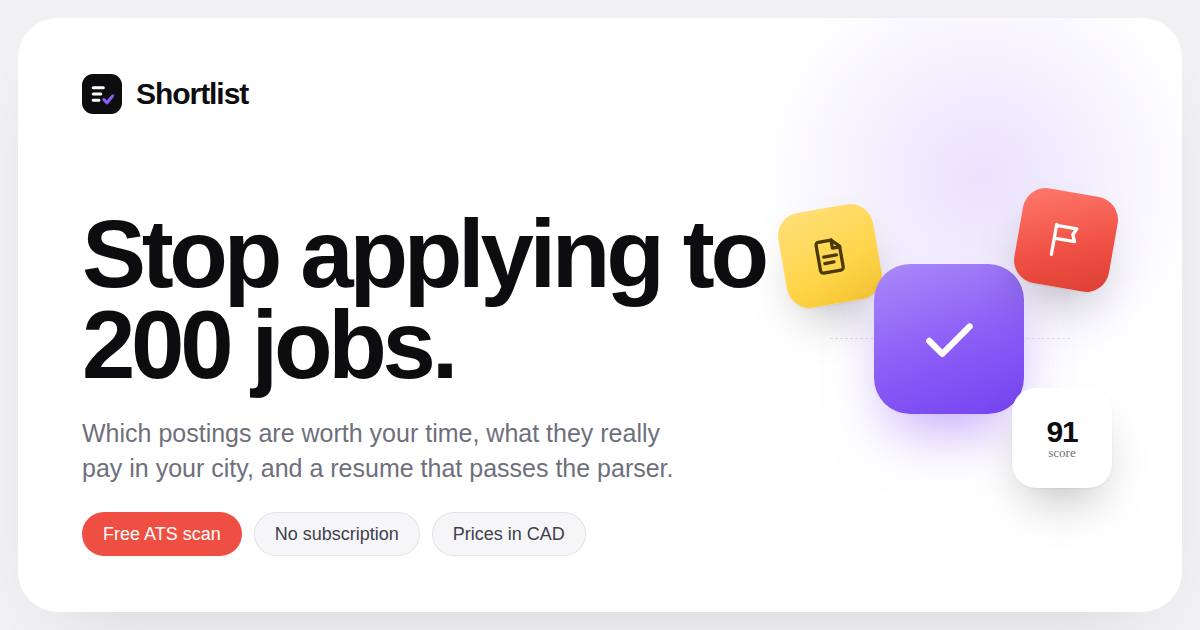
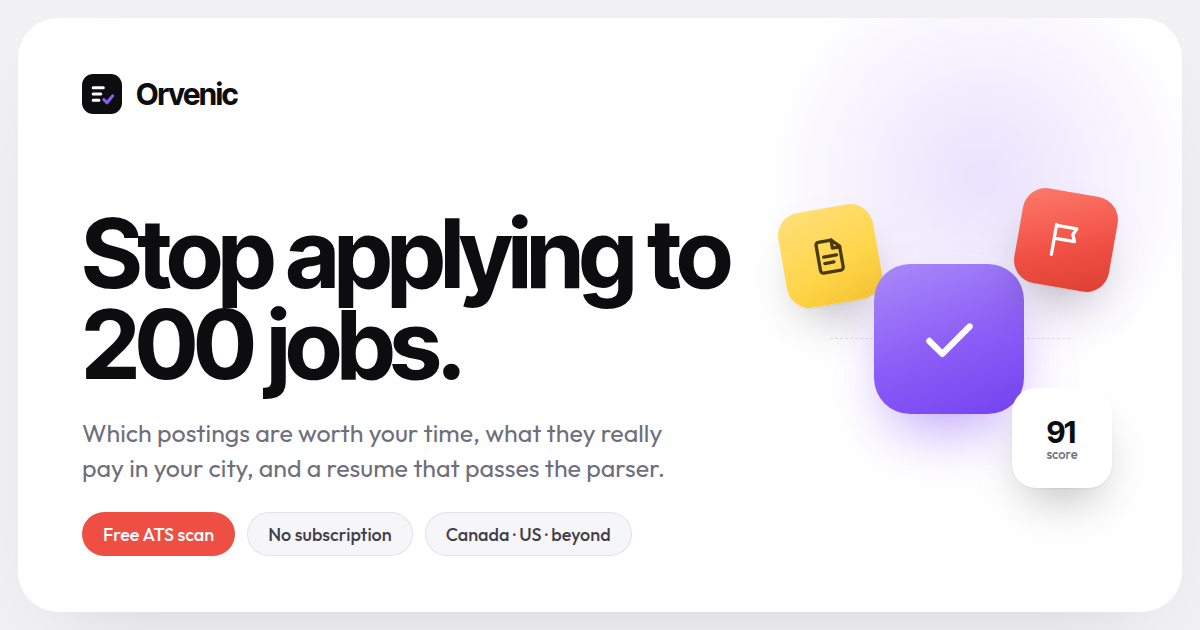
Rename the brand to Orvenic at orvenic.com
The company and the product are now Orvenic. Every brand mention in the
site, the app, emails, delivered documents, Stripe product names, prompts,
metadata, deployment files and docs changes with it; "shortlist" survives
only as a common noun. Defaults point at orvenic.com and hello@orvenic.com,
the emulator project is demo-orvenic, the footer wordmark is resized for the
shorter name, and the social preview image is re-rendered with the new name
using the site's own font files.

Claude-Session: https://claude.ai/code/session_011DjX4xCGdCcRnwDezQX4yh

diff --git a/src/lib/pages.ts b/src/lib/pages.ts
@@ -213,16 +213,16 @@ export const orgPage = {
       { title: "Quarterly reporting", body: "Seats used, scores before and after, applications per client, and voluntary renewals. Numbers your funders can use." },
     ],
   },
-  cta: { label: "Talk to us about a pilot", href: `mailto:${brand.email}?subject=Shortlist%20pilot` } as Link,
+  cta: { label: "Talk to us about a pilot", href: `mailto:${brand.email}?subject=Orvenic%20pilot` } as Link,
 };
 
 /* ---------- About page ---------- */
 
 export const aboutPage = {
   hero: {
-    eyebrow: "About Shortlist",
+    eyebrow: "About Orvenic",
     title: "The resume is an output. The decision is the product.",
-    lead: "Shortlist is an independent Canadian company built on one idea: job seekers do not need more applications, they need fewer, better ones. It works for postings in Canada, the United States and beyond.",
+    lead: "Orvenic is an independent Canadian company built on one idea: job seekers do not need more applications, they need fewer, better ones. It works for postings in Canada, the United States and beyond.",
   },
   wedges: {
     title: "Three things nobody else will do.",
@@ -238,7 +238,7 @@ export const aboutPage = {
       },
       {
         title: "Built for Canada and the US, in three languages",
-        body: "Most tools are built for one market and one language. Shortlist reads postings on both sides of the border and beyond, speaks English, French and Spanish, and makes foreign credentials legible to the employer in front of you.",
+        body: "Most tools are built for one market and one language. Orvenic reads postings on both sides of the border and beyond, speaks English, French and Spanish, and makes foreign credentials legible to the employer in front of you.",
       },
     ],
     theirs: ["Sell you a subscription with a free trial that converts", "Make money when you apply to more postings", "Let the model guess at salary", "Invent metrics to make bullets sound better", "Submit applications on your behalf", "Promise interviews"],
@@ -247,7 +247,7 @@ export const aboutPage = {
   company: {
     title: "Built in Windsor–Essex.",
     body: [
-      "Shortlist is a sole proprietorship registered in Ontario and run by its founder. It serves job seekers in Canada, the United States and beyond, with roots in the logistics, healthcare, trades, hospitality and administrative labour markets of Essex County.",
+      "Orvenic is a sole proprietorship registered in Ontario and run by its founder. It serves job seekers in Canada, the United States and beyond, with roots in the logistics, healthcare, trades, hospitality and administrative labour markets of Essex County.",
       "We publish the score breakdown, the refund policy and the six rules because a product that asks for your resume should be able to explain itself.",
     ],
     facts: [
@@ -388,8 +388,8 @@ export const contactPage = {
     lead: "Email is the fastest way to reach us. Landed customers get a same-day response; everyone else hears back within two business days.",
   },
   channels: [
-    { title: "Customers", body: "Questions about a scan, a delivery, a revision or a refund.", email: brand.email, subject: "Shortlist%20support" },
-    { title: "Organizations", body: "Pilots, seat packages, white-labelled intake pages and reporting.", email: brand.email, subject: "Shortlist%20pilot" },
+    { title: "Customers", body: "Questions about a scan, a delivery, a revision or a refund.", email: brand.email, subject: "Orvenic%20support" },
+    { title: "Organizations", body: "Pilots, seat packages, white-labelled intake pages and reporting.", email: brand.email, subject: "Orvenic%20pilot" },
     { title: "Privacy", body: "Access, correction or deletion requests under PIPEDA, GDPR, CCPA or your local privacy law.", email: brand.email, subject: "Privacy%20request" },
   ],
   address: `${brand.name} · ${brand.region}`,
@@ -415,7 +415,7 @@ export const legal: Record<"privacy" | "terms" | "refunds", LegalDoc> = {
   privacy: {
     title: "Privacy policy",
     updated: "September 2026",
-    intro: "Your resume is personal information. This policy explains, in plain language, what we collect, why, how long we keep it, and how to make it go away. Shortlist is a Canadian company and operates under Canada's Personal Information Protection and Electronic Documents Act (PIPEDA). If you are in the United States, the United Kingdom, the European Union or elsewhere, you also have the rights your local law gives you (for example the CCPA in California or the GDPR), and this policy applies to you the same way.",
+    intro: "Your resume is personal information. This policy explains, in plain language, what we collect, why, how long we keep it, and how to make it go away. Orvenic is a Canadian company and operates under Canada's Personal Information Protection and Electronic Documents Act (PIPEDA). If you are in the United States, the United Kingdom, the European Union or elsewhere, you also have the rights your local law gives you (for example the CCPA in California or the GDPR), and this policy applies to you the same way.",
     sections: [
       {
         id: "collect",
@@ -479,7 +479,7 @@ export const legal: Record<"privacy" | "terms" | "refunds", LegalDoc> = {
       {
         id: "age",
         heading: "Age",
-        paragraphs: ["Shortlist is for people who are legally able to work in the country where they are applying. It is not directed at anyone under 16."],
+        paragraphs: ["Orvenic is for people who are legally able to work in the country where they are applying. It is not directed at anyone under 16."],
       },
       {
         id: "changes",
@@ -493,13 +493,13 @@ export const legal: Record<"privacy" | "terms" | "refunds", LegalDoc> = {
   terms: {
     title: "Terms of service",
     updated: "September 2026",
-    intro: "These terms are the agreement between you and Shortlist when you use the free scan or buy a package. They are written to be read, not skimmed.",
+    intro: "These terms are the agreement between you and Orvenic when you use the free scan or buy a package. They are written to be read, not skimmed.",
     sections: [
       {
         id: "service",
-        heading: "What Shortlist does",
+        heading: "What Orvenic does",
         paragraphs: [
-          "Shortlist scores your resume against job postings you choose, tells you whether a posting is worth applying to, reports the market salary band for that role in your city, flags problems in the posting, and produces a tailored resume and cover letter. Depending on the package, it also provides a browser extension that fills application forms for your review, an application tracker, interview preparation, and human coaching.",
+          "Orvenic scores your resume against job postings you choose, tells you whether a posting is worth applying to, reports the market salary band for that role in your city, flags problems in the posting, and produces a tailored resume and cover letter. Depending on the package, it also provides a browser extension that fills application forms for your review, an application tracker, interview preparation, and human coaching.",
         ],
       },
       {
@@ -558,7 +558,7 @@ export const legal: Record<"privacy" | "terms" | "refunds", LegalDoc> = {
         id: "acceptable-use",
         heading: "Acceptable use",
         bullets: [
-          "Do not use Shortlist to produce documents for a person who has not consented, or to misrepresent identity, credentials or experience.",
+          "Do not use Orvenic to produce documents for a person who has not consented, or to misrepresent identity, credentials or experience.",
           "Do not attempt to automate, scrape, resell or share access to the service outside the organization seat programme.",
           "Do not upload content you do not have the right to share.",
         ],

diff --git a/src/lib/content.ts b/src/lib/content.ts
@@ -1,5 +1,5 @@
 /* ------------------------------------------------------------------
-   All copy and data for the Shortlist landing page.
+   All copy and data for the Orvenic landing page.
    Prices in CAD (Canada) and USD (everywhere else). Windsor–Essex, Ontario.
    Note: the 30-day pass fair-use cap lives in the terms, never in UI.
 ------------------------------------------------------------------- */
@@ -12,11 +12,11 @@ export interface Link {
 }
 
 export const brand = {
-  name: "Shortlist",
+  name: "Orvenic",
   region: "Windsor–Essex, Ontario",
-  email: "hello@shortlist.ca",
+  email: "hello@orvenic.com",
   blurb:
-    "Shortlist tells job seekers which postings are worth applying to, what those roles really pay in their city, and rewrites the resume for the ones that pass. Built in Windsor–Essex, Ontario, for Canada, the US and beyond.",
+    "Orvenic tells job seekers which postings are worth applying to, what those roles really pay in their city, and rewrites the resume for the ones that pass. Built in Windsor–Essex, Ontario, for Canada, the US and beyond.",
 };
 
 export const nav = {
@@ -38,7 +38,7 @@ export const hero = {
     b: "Know what the job actually pays.",
   },
   lead:
-    "Shortlist tells job seekers in Canada, the US and beyond which postings are worth applying to, what those roles really pay in their city, and then rewrites their resume for the ones that pass. Delivered in under five minutes.",
+    "Orvenic tells job seekers in Canada, the US and beyond which postings are worth applying to, what those roles really pay in their city, and then rewrites their resume for the ones that pass. Delivered in under five minutes.",
   primary: { label: "Scan my resume free", href: "/scan" } as Link,
   secondary: { label: "See pricing", href: "/pricing" } as Link,
   trust: ["No subscription", "No auto-renew", "No card retained", "Prices in CAD or USD"],
@@ -385,7 +385,7 @@ export const organizations = {
     "Staff onboarding",
     "Seats valid for 12 months from purchase",
   ],
-  cta: { label: "Talk to us about a pilot", href: `mailto:${brand.email}?subject=Shortlist%20pilot` } as Link,
+  cta: { label: "Talk to us about a pilot", href: `mailto:${brand.email}?subject=Orvenic%20pilot` } as Link,
 };
 
 export interface Faq {

diff --git a/src/lib/email/resend.ts b/src/lib/email/resend.ts
@@ -29,15 +29,15 @@ export async function sendEmail(input: { to: string; subject: string; text: stri
 
 export function freeScanEmail(input: { score: number; verdict: string; reasons: string[]; resultUrl: string }): { subject: string; text: string } {
   return {
-    subject: `Your Shortlist scan: ${input.score}/100`,
-    text: [`Your resume scored ${input.score} out of 100 against that posting (${input.verdict}).`, "", "The three reasons it is being filtered out:", ...input.reasons.map((r, i) => `${i + 1}. ${r}`), "", `Full breakdown: ${input.resultUrl}`, "", "Shortlist · Windsor–Essex, Ontario"].join("\n"),
+    subject: `Your Orvenic scan: ${input.score}/100`,
+    text: [`Your resume scored ${input.score} out of 100 against that posting (${input.verdict}).`, "", "The three reasons it is being filtered out:", ...input.reasons.map((r, i) => `${i + 1}. ${r}`), "", `Full breakdown: ${input.resultUrl}`, "", "Orvenic · Windsor–Essex, Ontario"].join("\n"),
   };
 }
 
 export function packageReadyEmail(input: { title: string; company?: string; score: number; url: string }): { subject: string; text: string } {
   return {
     subject: `Your ${input.title} package is ready (${input.score}/100)`,
-    text: [`Your tailored resume and cover letter for ${input.title}${input.company ? ` at ${input.company}` : ""} are ready.`, `After the rewrite it scores ${input.score} out of 100.`, "", `Open it: ${input.url}`, "", "Shortlist · Windsor–Essex, Ontario"].join("\n"),
+    text: [`Your tailored resume and cover letter for ${input.title}${input.company ? ` at ${input.company}` : ""} are ready.`, `After the rewrite it scores ${input.score} out of 100.`, "", `Open it: ${input.url}`, "", "Orvenic · Windsor–Essex, Ontario"].join("\n"),
   };
 }
 

diff --git a/src/app/layout.tsx b/src/app/layout.tsx
@@ -25,28 +25,28 @@ const body = Outfit({
 });
 
 const description =
-  "Shortlist tells job seekers which postings are worth applying to, what those roles actually pay in their city, and rewrites the resume for the ones that pass. Canada, the US and beyond. Under five minutes. One-time purchase, no subscription.";
+  "Orvenic tells job seekers which postings are worth applying to, what those roles actually pay in their city, and rewrites the resume for the ones that pass. Canada, the US and beyond. Under five minutes. One-time purchase, no subscription.";
 
 export const metadata: Metadata = {
   metadataBase: new URL(siteUrl),
   title: {
-    default: "Shortlist — Know which jobs are worth applying to",
-    template: "%s · Shortlist",
+    default: "Orvenic — Know which jobs are worth applying to",
+    template: "%s · Orvenic",
   },
   description,
-  applicationName: "Shortlist",
+  applicationName: "Orvenic",
   keywords: ["resume", "ATS score", "job search", "Canada", "United States", "Windsor", "salary report", "cover letter"],
   openGraph: {
-    title: "Shortlist — Stop applying to 200 jobs.",
+    title: "Orvenic — Stop applying to 200 jobs.",
     description,
     type: "website",
     locale: "en_CA",
-    siteName: "Shortlist",
-    images: [{ url: "/og.png", width: 1200, height: 630, alt: "Shortlist: stop applying to 200 jobs." }],
+    siteName: "Orvenic",
+    images: [{ url: "/og.png", width: 1200, height: 630, alt: "Orvenic: stop applying to 200 jobs." }],
   },
   twitter: {
     card: "summary_large_image",
-    title: "Shortlist — Stop applying to 200 jobs.",
+    title: "Orvenic — Stop applying to 200 jobs.",
     description,
     images: ["/og.png"],
   },

diff --git a/src/lib/documents/resume-pdf.tsx b/src/lib/documents/resume-pdf.tsx
@@ -28,7 +28,7 @@ type Paper = "LETTER" | "A4";
 
 function ResumeDoc({ r, paper }: { r: TailoredResume; paper: Paper }) {
   return (
-    <Document title={`${r.name} – Resume`} author={r.name} producer="Shortlist">
+    <Document title={`${r.name} – Resume`} author={r.name} producer="Orvenic">
       <Page size={paper} style={s.page}>
         <Text style={s.name}>{r.name}</Text>
         {r.headline ? <Text style={s.headline}>{r.headline}</Text> : null}
@@ -95,7 +95,7 @@ function ResumeDoc({ r, paper }: { r: TailoredResume; paper: Paper }) {
 function LetterDoc({ letter, r, title, company, paper }: { letter: string; r: TailoredResume; title: string; company?: string; paper: Paper }) {
   const date = new Date().toLocaleDateString("en-CA", { year: "numeric", month: "long", day: "numeric" });
   return (
-    <Document title={`${r.name} – Cover letter`} author={r.name} producer="Shortlist">
+    <Document title={`${r.name} – Cover letter`} author={r.name} producer="Orvenic">
       <Page size={paper} style={{ ...s.page, fontSize: 11, lineHeight: 1.5 }}>
         <Text style={s.name}>{r.name}</Text>
         {contactLine(r) ? <Text style={s.contact}>{contactLine(r)}</Text> : null}

diff --git a/src/lib/documents/resume-docx.ts b/src/lib/documents/resume-docx.ts
@@ -100,7 +100,7 @@ export async function buildResumeDocx(r: TailoredResume, opts: { paper?: Paper }
   }
 
   const doc = new Document({
-    creator: "Shortlist",
+    creator: "Orvenic",
     title: `${r.name} – Resume`,
     styles: { default: { document: { run: { font: FONT, size: 21 } } } },
     sections: [{ properties: { page: { size: pageSize(opts.paper ?? "LETTER"), margin: { top: 900, bottom: 900, left: 1000, right: 1000 } } }, children }],
@@ -117,7 +117,7 @@ export async function buildCoverLetterDocx(input: { letter: string; resume: Tail
   children.push(line(`Re: ${input.title}${input.company ? ` at ${input.company}` : ""}`, { bold: true, after: 200 }));
   for (const para of input.letter.split(/\n{2,}/)) children.push(line(para.trim(), { after: 160 }));
   const doc = new Document({
-    creator: "Shortlist",
+    creator: "Orvenic",
     title: `${input.resume.name} – Cover letter`,
     styles: { default: { document: { run: { font: FONT, size: 22 } } } },
     sections: [{ properties: { page: { size: pageSize(input.paper ?? "LETTER"), margin: { top: 1100, bottom: 1100, left: 1100, right: 1100 } } }, children }],

diff --git a/src/lib/ai/prompts.ts b/src/lib/ai/prompts.ts
@@ -6,7 +6,7 @@ import { type CountryCode, DEFAULT_COUNTRY, marketFor } from "@/lib/app/markets"
    in the user message.
 ------------------------------------------------------------------- */
 
-const RULES = `You work inside Shortlist, a job-search service for candidates in Canada, the United States and other markets. Six rules are absolute:
+const RULES = `You work inside Orvenic, a job-search service for candidates in Canada, the United States and other markets. Six rules are absolute:
 1. Never fabricate. Do not invent employers, titles, dates, credentials, skills or figures. If something is not in the source material, it does not exist.
 2. Never guess at pay. You do not state or estimate salaries.
 3. Never block: you give straight, useful answers; a weak match is described plainly, not padded.

diff --git a/src/instrumentation.ts b/src/instrumentation.ts
@@ -3,6 +3,6 @@ import type { Instrumentation } from "next";
 /** Server errors Next.js catches outside our handlers (module load failures, rendering) go to the host's logs with the route named. */
 export const onRequestError: Instrumentation.onRequestError = async (err, request, context) => {
   const message = err instanceof Error ? `${err.name}: ${err.message}` : String(err);
-  console.error(`[shortlist] ${request.method} ${request.path} (${context.routeType} ${context.routePath}): ${message}`);
+  console.error(`[orvenic] ${request.method} ${request.path} (${context.routeType} ${context.routePath}): ${message}`);
   if (err instanceof Error && err.stack) console.error(err.stack.split("\n").slice(1, 6).join("\n"));
 };

diff --git a/src/app/(site)/about/page.tsx b/src/app/(site)/about/page.tsx
@@ -7,7 +7,7 @@ import { aboutPage } from "@/lib/pages";
 
 export const metadata: Metadata = {
   title: "About",
-  description: "Shortlist is an independent Canadian company serving job seekers in Canada, the US and beyond, built on one idea: fewer, better applications. The three things nobody else will do, and the six rules we never break.",
+  description: "Orvenic is an independent Canadian company serving job seekers in Canada, the US and beyond, built on one idea: fewer, better applications. The three things nobody else will do, and the six rules we never break.",
 };
 
 export default function AboutPage() {

diff --git a/src/lib/site.ts b/src/lib/site.ts
@@ -1,4 +1,4 @@
-/** Canonical site origin. Set NEXT_PUBLIC_SITE_URL in production; the domain is still an open decision. */
-export const siteUrl = (process.env.NEXT_PUBLIC_SITE_URL ?? "https://shortlist.ca").replace(/\/$/, "");
+/** Canonical site origin. NEXT_PUBLIC_SITE_URL overrides it (staging, preview deploys). */
+export const siteUrl = (process.env.NEXT_PUBLIC_SITE_URL ?? "https://orvenic.com").replace(/\/$/, "");
 
 export const routes = ["/", "/how-it-works", "/pricing", "/organizations", "/about", "/faq", "/scan", "/contact", "/privacy", "/terms", "/refunds"] as const;

diff --git a/src/lib/firebase/client.ts b/src/lib/firebase/client.ts
@@ -7,7 +7,7 @@ import { connectAuthEmulator, getAuth, GoogleAuthProvider, type Auth } from "fir
    Firebase web SDK: authentication (and analytics) only. Firestore is
    server-side through the Admin SDK.
 
-   The web config below identifies the Shortlist Firebase project. These
+   The web config below identifies the Orvenic Firebase project. These
    values are meant to ship to browsers: access is controlled by Firebase
    Auth and the Firestore rules, not by keeping them secret. Set the
    NEXT_PUBLIC_FIREBASE_* variables to point at another project (staging)

diff --git a/src/app/(site)/privacy/page.tsx b/src/app/(site)/privacy/page.tsx
@@ -4,7 +4,7 @@ import { legal } from "@/lib/pages";
 
 export const metadata: Metadata = {
   title: "Privacy policy",
-  description: "What Shortlist collects, why, how long it is kept, and how to delete it. Written in plain language, for Canada, the US and everywhere else we serve.",
+  description: "What Orvenic collects, why, how long it is kept, and how to delete it. Written in plain language, for Canada, the US and everywhere else we serve.",
 };
 
 export default function Page() {
